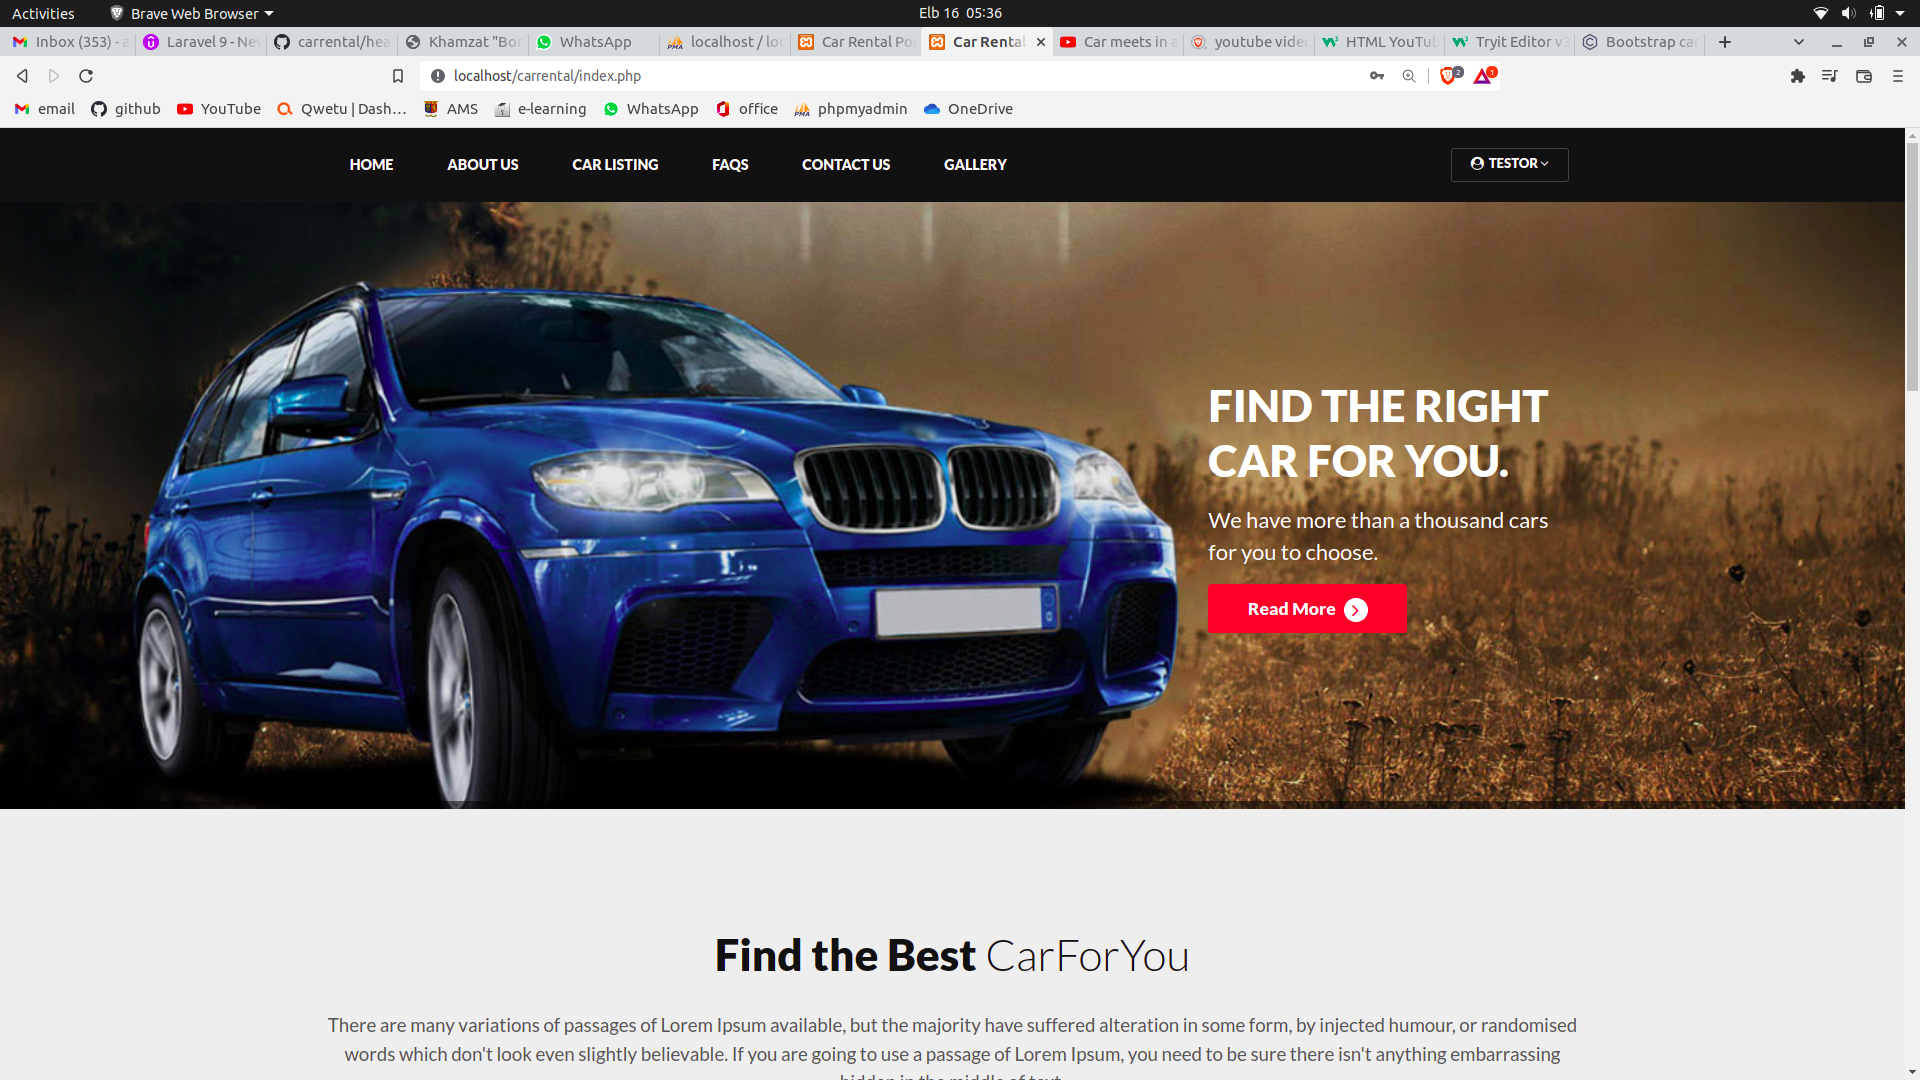
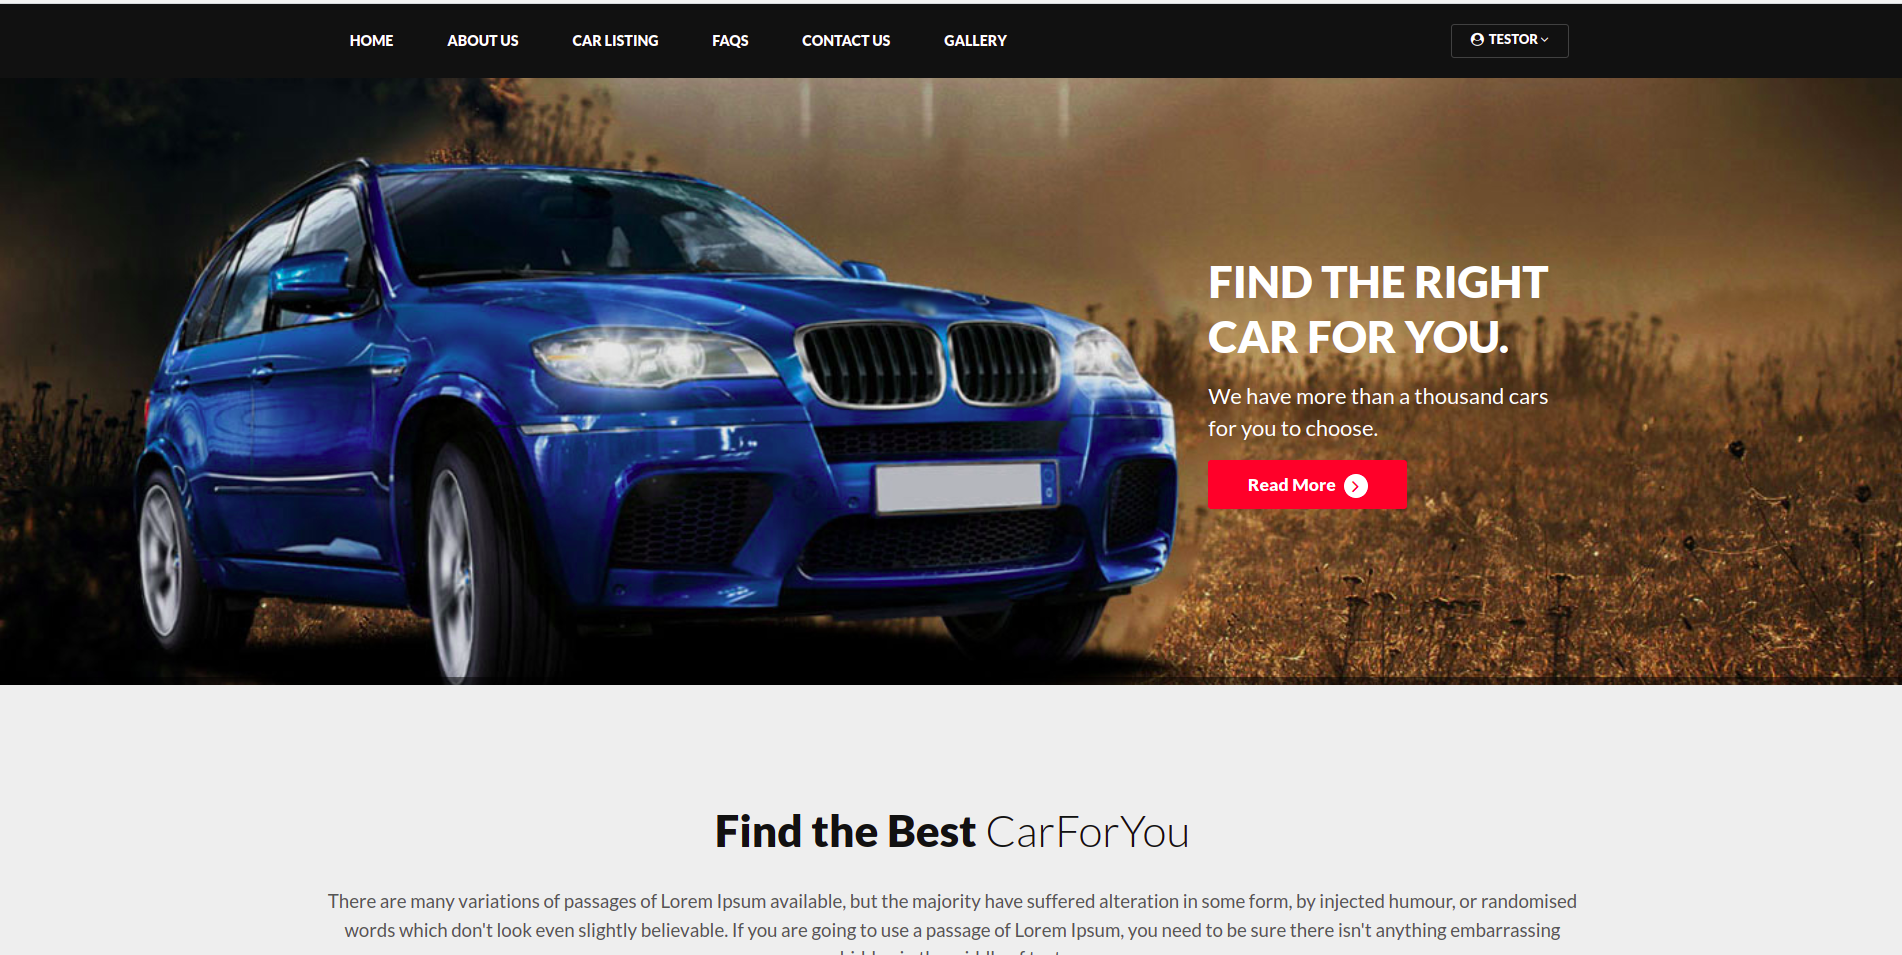
images bug

diff --git a/README.md b/README.md
@@ -1,0 +1,23 @@
+### How to install this pro
+you need xampp/lampp to run this project .
+create a db named `carrental`  and import the sql file in your myphpadmin
+
+### 1. To download run 
+  
+    git clone https://github.com/dev-sheikh-ali/carrental.git
+
+### 2. LOGIN DETAILS  
+
+## Admin
+    
+    admin
+    Test@12345
+
+## Client
+    sheikh@gmail.com
+    Test@12345
+### 3. Screenshots
+<br/>
+
+<img align="right" alt="dash" src="assets/images/screenshot1.png" height="500"/>
+<img align="right" alt="dash" src="assets/images/screenshot2.png" height="500"/> 
